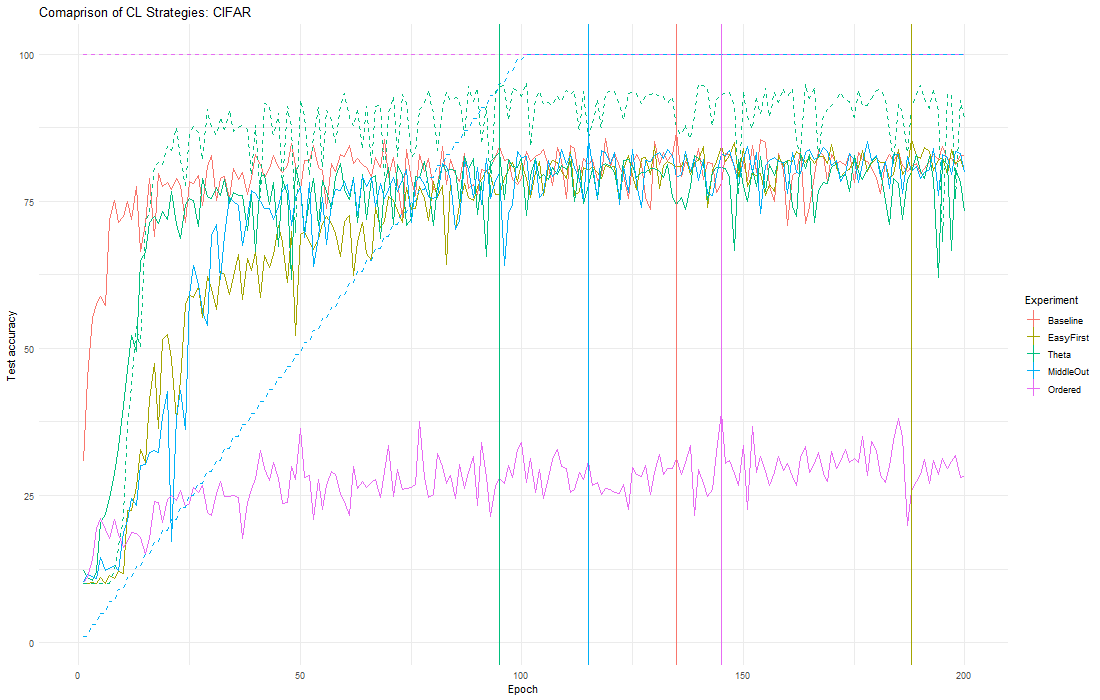
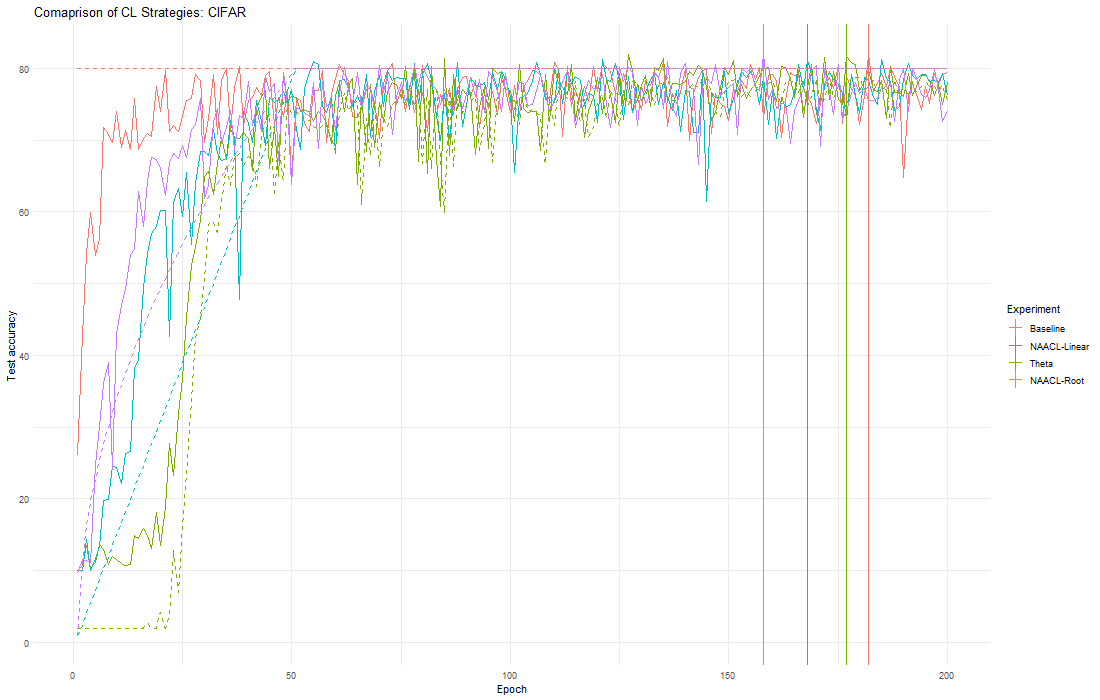
updates

diff --git a/reports/aaai2020/main.tex b/reports/aaai2020/main.tex
@@ -367,6 +367,9 @@ In order to demonstrate the effectiveness of DCL-IRT we must show that the model
 Any gains in predictive performance are an additional benefit, but are not the main goal.
 With this in mind we performed the following experiment.
 
+\textbf{baseline, naacl results, dcl are the only things being compared in initial experiment}
+do a followup analysis with ordered (maybe) and hardest-first, middle out, 
+
 For each data set, we trained a standard model architecture for a set number of epochs. 
 We varied the training data available to the model at each epoch based on the type of curriculum applied:
 
@@ -410,7 +413,8 @@ For the methods below, $t$ is the current time-step in training, $T$ is the poin
 \end{itemize}
 
 It is worth noting here that neither Linear nor Root actually measure competency of the model at any point. 
-Instead it is assumed that the model becomes more and more competent over time.
+Instead it is assumed that the model becomes more and more competent over time, whereas with DCL-IRT model competency is probed at each training epoch and training data is selected based on this competency.
+This is critical because at a given training epoch, there is a chance that less training data is used than the prior epoch, if data was added too quickly.
 
 \section{Results} 
 
@@ -420,13 +424,13 @@ Instead it is assumed that the model becomes more and more competent over time.
 	\centering
 	\begin{subfigure}[b]{0.45\textwidth}
 		\centering
-		\includegraphics[width=0.9\columnwidth]{figs/cl_mnist}
+		\includegraphics[width=0.9\columnwidth]{figs/cl_irt_mnist}
 		\caption{\label{fig:cl_mnist}} 
 		\vspace{-2em} 
 	\end{subfigure} 
 	\begin{subfigure}[b]{0.45\textwidth}
 		\centering
-		\includegraphics[width=0.9\columnwidth]{figs/cl_cifar}
+		\includegraphics[width=0.9\columnwidth]{figs/cl_irt_cifar}
 		\caption{\label{fig:cl_cifar}} 
 		\vspace{-2em} 
 	\end{subfigure} 
@@ -459,7 +463,9 @@ Instead it is assumed that the model becomes more and more competent over time.
 
 - really show that using our method is efficient and practical 
 
-Using IRT leads to quicker convergence for the trained models (Figure XX).
+
+
+Using IRT leads to quicker convergence for the trained models (Figures \ref{fig:acc_viz} and \ref{fig:acc_nlp}).
 The vertical lines in each plot indicate the point at which the model has converged, based on early stopping using the development set accuracy.
 In most cases DCL-IRT leads to the fastest convergence, however for XX using the Simple-IRT curriculum ordered easiest to hardest leads to the fastest convergence.
 In all cases some use of IRT to determine the curriculum improves over the baseline training criterion. 
